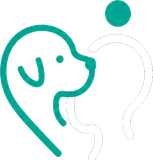
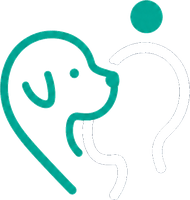
Corriger l'en-tête : signature retirée, symbole complet, nom insécable

diff --git a/assets/style.css b/assets/style.css
@@ -28,10 +28,17 @@ header{background:var(--navy);color:#fff;padding:20px 0;}
 .nav{display:flex;justify-content:space-between;align-items:center;gap:16px;flex-wrap:wrap;}
 .logo{font-weight:700;font-size:20px;letter-spacing:-.3px;}
 /* Le symbole précède le nom. `height` fixe et `width:auto` : c'est la
-   hauteur qui doit s'aligner sur le texte, pas la largeur. */
-.logo a{color:#fff;text-decoration:none;display:inline-flex;align-items:center;gap:9px;}
-.logo img{height:32px;width:auto;display:block;}
+   hauteur qui doit s'aligner sur le texte, pas la largeur.
+   Pas de `gap` ici : il s'appliquerait aussi entre « Paw » et
+   « Bridge » et couperait le mot en deux. La marge est portée par
+   l'image seule. */
+.logo a{color:#fff;text-decoration:none;display:inline-flex;align-items:center;}
+.logo img{height:34px;width:auto;display:block;margin-right:10px;}
+.logo .wm{white-space:nowrap;}
 .logo span{color:var(--teal);}
+/* Dans le pied de page, le logo reste purement typographique et la
+   signature l'accompagne. En en-tête, le symbole la remplace. */
+footer .tagline{margin-top:2px;}
 .tagline{font-size:11.5px;color:var(--mint);letter-spacing:1.5px;text-transform:uppercase;}
 /* La barre de navigation garde la même allure quelle que soit la langue.
    `nowrap` empêche un libellé de se couper en deux, et l'espacement est

diff --git a/avisame.html b/avisame.html
@@ -21,15 +21,14 @@
 <link href="https://fonts.googleapis.com/css2?family=Poppins:wght@400;500;600;700&display=swap" rel="stylesheet">
 <link rel="icon" href="assets/img/favicon.png" sizes="64x64">
 <link rel="apple-touch-icon" href="assets/img/apple-touch-icon.png">
-<link rel="stylesheet" href="assets/style.css?v=2026-08-03a">
+<link rel="stylesheet" href="assets/style.css?v=2026-08-03b">
 </head>
 <body data-title-key="title.wait">
 
 <header>
   <div class="wrap nav">
     <div>
-      <div class="logo"><a href="index.html"><img src="assets/img/symbol-light.png" alt="" width="153" height="160">Paw<span>Bridge</span></a></div>
-      <div class="tagline">Care. Connected.</div>
+      <div class="logo"><a href="index.html"><img src="assets/img/symbol-light.png" alt="" width="190" height="200"><span class="wm">Paw<span>Bridge</span></span></a></div>
     </div>
     <nav>
       <a href="index.html#servicios" data-i18n="nav.services">Servicios</a>
@@ -135,7 +134,7 @@
   </div>
 </footer>
 
-<script src="assets/i18n.js?v=2026-08-03a"></script>
-<script src="assets/forms.js?v=2026-08-03a"></script>
+<script src="assets/i18n.js?v=2026-08-03b"></script>
+<script src="assets/forms.js?v=2026-08-03b"></script>
 </body>
 </html>

diff --git a/cuidadores.html b/cuidadores.html
@@ -21,15 +21,14 @@
 <link href="https://fonts.googleapis.com/css2?family=Poppins:wght@400;500;600;700&display=swap" rel="stylesheet">
 <link rel="icon" href="assets/img/favicon.png" sizes="64x64">
 <link rel="apple-touch-icon" href="assets/img/apple-touch-icon.png">
-<link rel="stylesheet" href="assets/style.css?v=2026-08-03a">
+<link rel="stylesheet" href="assets/style.css?v=2026-08-03b">
 </head>
 <body data-title-key="title.work">
 
 <header>
   <div class="wrap nav">
     <div>
-      <div class="logo"><a href="index.html"><img src="assets/img/symbol-light.png" alt="" width="153" height="160">Paw<span>Bridge</span></a></div>
-      <div class="tagline">Care. Connected.</div>
+      <div class="logo"><a href="index.html"><img src="assets/img/symbol-light.png" alt="" width="190" height="200"><span class="wm">Paw<span>Bridge</span></span></a></div>
     </div>
     <nav>
       <a href="index.html#servicios" data-i18n="nav.services">Servicios</a>
@@ -166,7 +165,7 @@
   </div>
 </footer>
 
-<script src="assets/i18n.js?v=2026-08-03a"></script>
-<script src="assets/forms.js?v=2026-08-03a"></script>
+<script src="assets/i18n.js?v=2026-08-03b"></script>
+<script src="assets/forms.js?v=2026-08-03b"></script>
 </body>
 </html>

diff --git a/faq.html b/faq.html
@@ -21,15 +21,14 @@
 <link href="https://fonts.googleapis.com/css2?family=Poppins:wght@400;500;600;700&display=swap" rel="stylesheet">
 <link rel="icon" href="assets/img/favicon.png" sizes="64x64">
 <link rel="apple-touch-icon" href="assets/img/apple-touch-icon.png">
-<link rel="stylesheet" href="assets/style.css?v=2026-08-03a">
+<link rel="stylesheet" href="assets/style.css?v=2026-08-03b">
 </head>
 <body data-title-key="title.faq">
 
 <header>
   <div class="wrap nav">
     <div>
-      <div class="logo"><a href="index.html"><img src="assets/img/symbol-light.png" alt="" width="153" height="160">Paw<span>Bridge</span></a></div>
-      <div class="tagline">Care. Connected.</div>
+      <div class="logo"><a href="index.html"><img src="assets/img/symbol-light.png" alt="" width="190" height="200"><span class="wm">Paw<span>Bridge</span></span></a></div>
     </div>
     <nav>
       <a href="index.html#servicios" data-i18n="nav.services">Servicios</a>
@@ -161,7 +160,7 @@
   </div>
 </footer>
 
-<script src="assets/i18n.js?v=2026-08-03a"></script>
-<script src="assets/forms.js?v=2026-08-03a"></script>
+<script src="assets/i18n.js?v=2026-08-03b"></script>
+<script src="assets/forms.js?v=2026-08-03b"></script>
 </body>
 </html>

diff --git a/index.html b/index.html
@@ -21,15 +21,14 @@
 <link href="https://fonts.googleapis.com/css2?family=Poppins:wght@400;500;600;700&display=swap" rel="stylesheet">
 <link rel="icon" href="assets/img/favicon.png" sizes="64x64">
 <link rel="apple-touch-icon" href="assets/img/apple-touch-icon.png">
-<link rel="stylesheet" href="assets/style.css?v=2026-08-03a">
+<link rel="stylesheet" href="assets/style.css?v=2026-08-03b">
 </head>
 <body data-title-key="title.home">
 
 <header>
   <div class="wrap nav">
     <div>
-      <div class="logo"><a href="index.html"><img src="assets/img/symbol-light.png" alt="" width="153" height="160">Paw<span>Bridge</span></a></div>
-      <div class="tagline">Care. Connected.</div>
+      <div class="logo"><a href="index.html"><img src="assets/img/symbol-light.png" alt="" width="190" height="200"><span class="wm">Paw<span>Bridge</span></span></a></div>
     </div>
     <nav>
       <a href="#servicios" data-i18n="nav.services">Servicios</a>
@@ -225,7 +224,7 @@
   </div>
 </footer>
 
-<script src="assets/i18n.js?v=2026-08-03a"></script>
-<script src="assets/forms.js?v=2026-08-03a"></script>
+<script src="assets/i18n.js?v=2026-08-03b"></script>
+<script src="assets/forms.js?v=2026-08-03b"></script>
 </body>
 </html>
